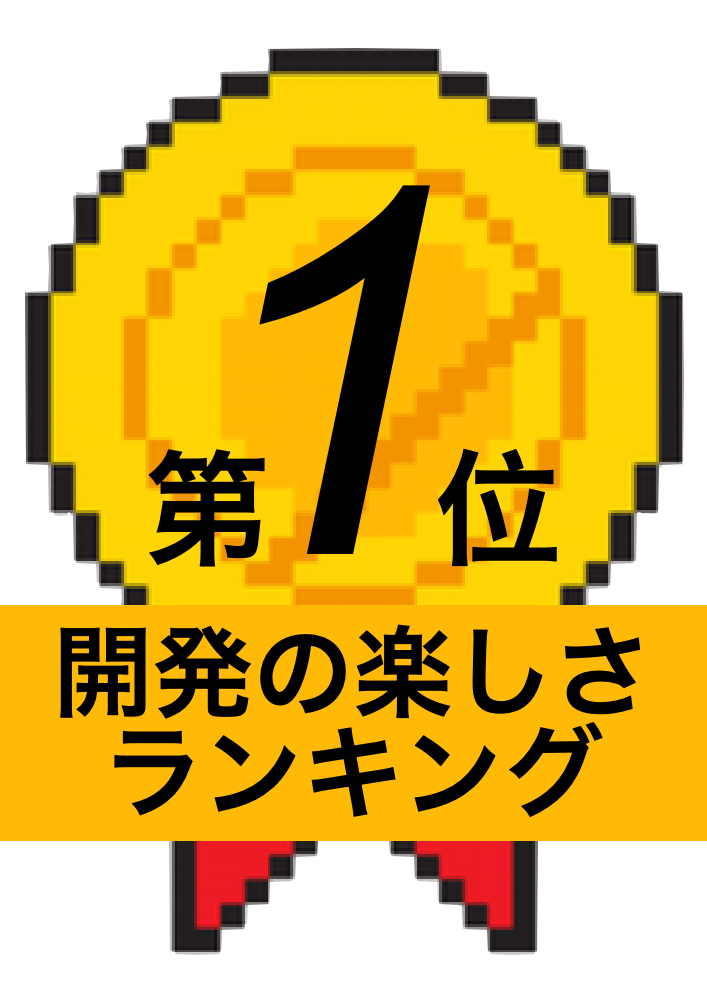
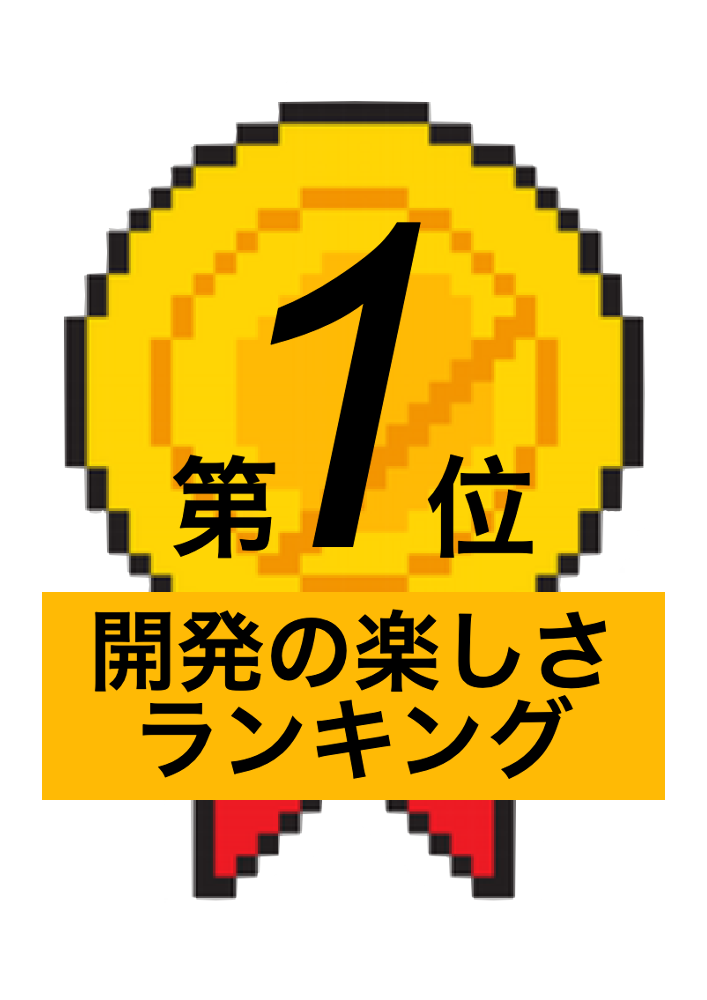
Update Awards

diff --git a/index.html b/index.html
@@ -102,13 +102,13 @@
           <div class = "item-plain">
             <img src = "images/rating-g.png" alt = "content rated glorious" style = "width:20%">
           </div><div class = "item-plain">
-            <img src = "images/rating-wish3.png" alt = "開発の楽しさランキング第１位" style = "width: 20%;">
+            <img src = "images/rating-3.png" alt = "開発の楽しさランキング第１位" style = "width: 20%;">
           </div>
           <div class = "item-plain">
-            <img src = "images/rating-3.png" alt = "目標100ダウンロード" style = "width: 20%;">
+            <img src = "images/rating-wish3.png" alt = "目標100ダウンロード" style = "width: 20%;">
           </div>
           <div class = "item-plain">
-            <img src = "images/rating-4.png" alt = "受賞してほしいゲーム第１位" style = "width: 20%;">
+            <img src = "images/rating copy.png" alt = "Over 200 days of planning" style = "width: 20%;">
           </div>
         </div>
         <br>
